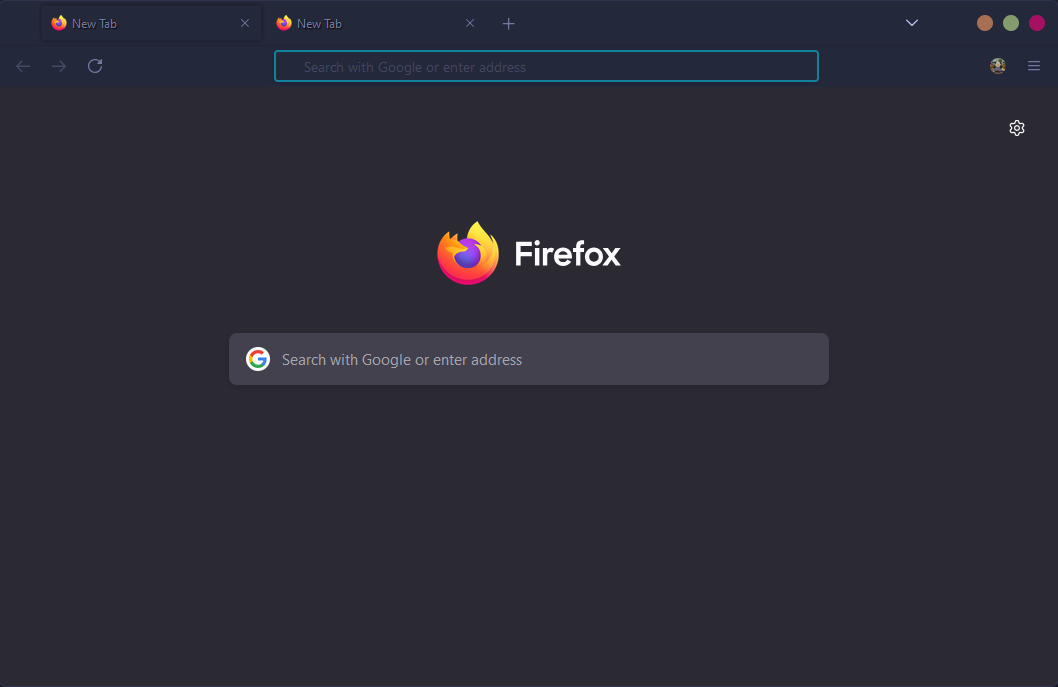
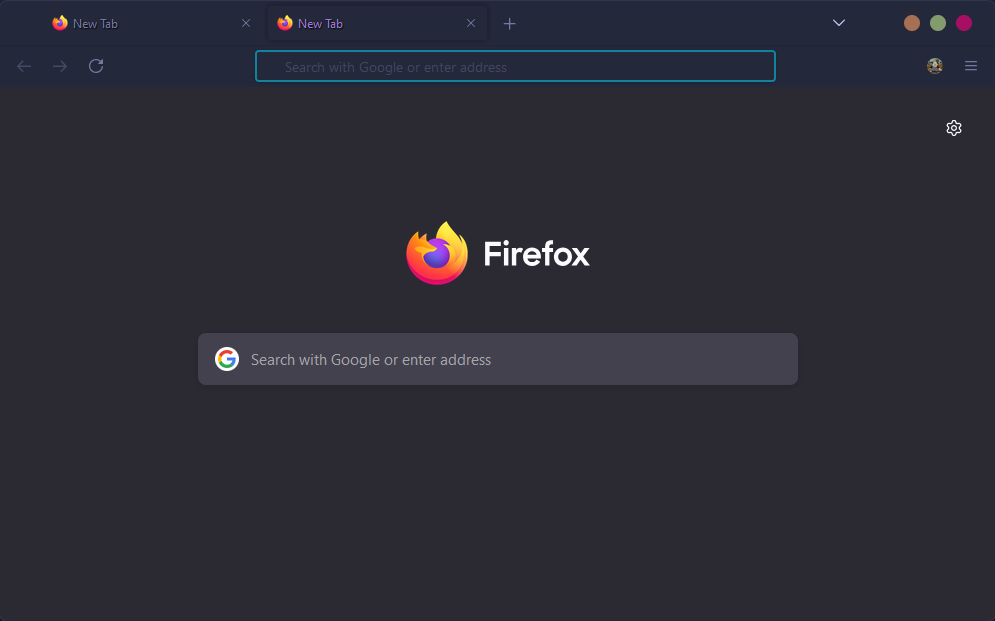
modified:   linux-userChrome.css 	modified:   preview.png 	modified:   win-userChrome.css

diff --git a/win-userChrome.css b/win-userChrome.css
@@ -43,9 +43,14 @@
   display: none !important;
 }
 
-/* Tab next color */
-.tab-text.tab-label {
-  color: #737aa2 !important;
+/* Current tab color */
+.tabbrowser-tab[selected="true"] .tab-label {
+  color: #9d7cd8 !important;
+}
+
+/* Non-selected tab color */
+.tabbrowser-tab:not([selected="true"]) .tab-label {
+  color: #737aa2 !important; /* Different color for inactive tabs */
 }
 
 /* Tab-close-button color */
@@ -109,5 +114,5 @@
 
 .titlebar-close {
   margin-inline-start: -5px !important; /* Space from the left */
-  margin-inline-end: 5px !important; /* Space from the right edge */
+  margin-inline-end: 0px !important; /* Space from the right edge */
 }

diff --git a/linux-userChrome.css b/linux-userChrome.css
@@ -43,9 +43,14 @@
   display: none !important;
 }
 
-/* Tab next color */
-.tab-text.tab-label {
-  color: #737aa2 !important;
+/* Current tab color */
+.tabbrowser-tab[selected="true"] .tab-label {
+  color: #9d7cd8 !important;
+}
+
+/* Non-selected tab color */
+.tabbrowser-tab:not([selected="true"]) .tab-label {
+  color: #737aa2 !important; /* Different color for inactive tabs */
 }
 
 /* Tab-close-button color */
